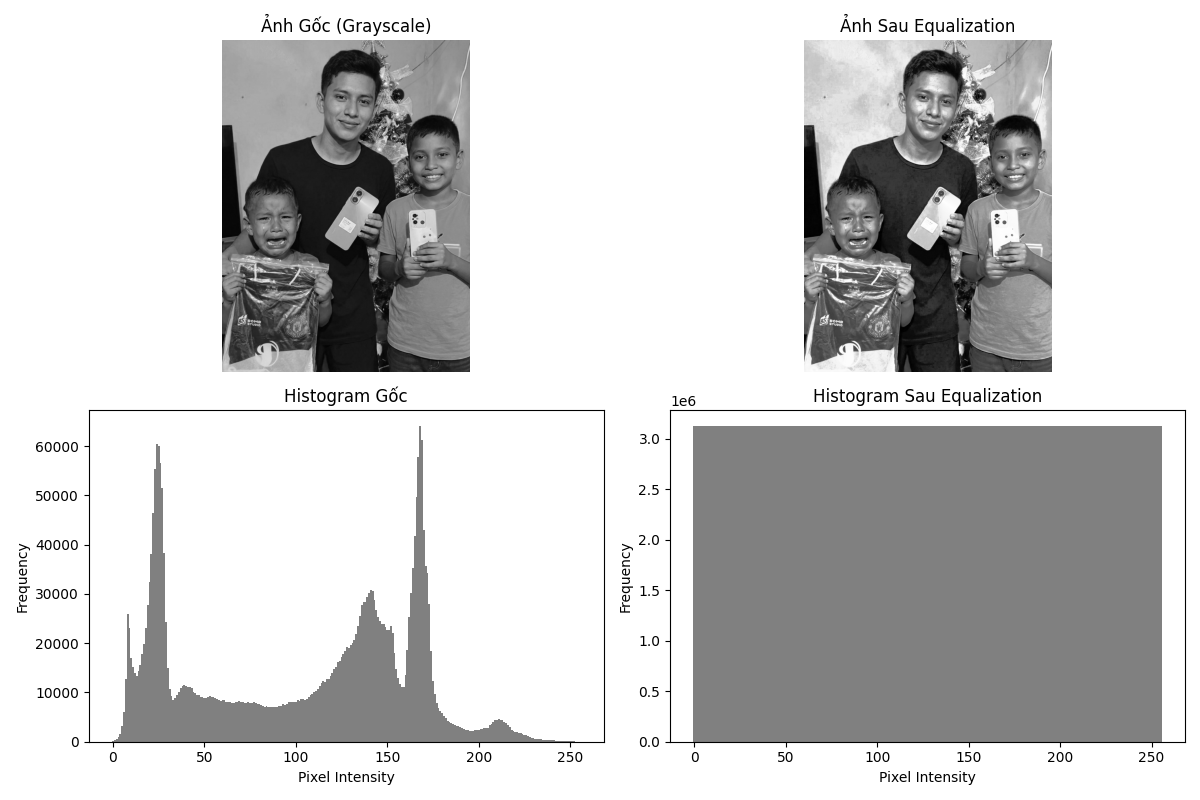
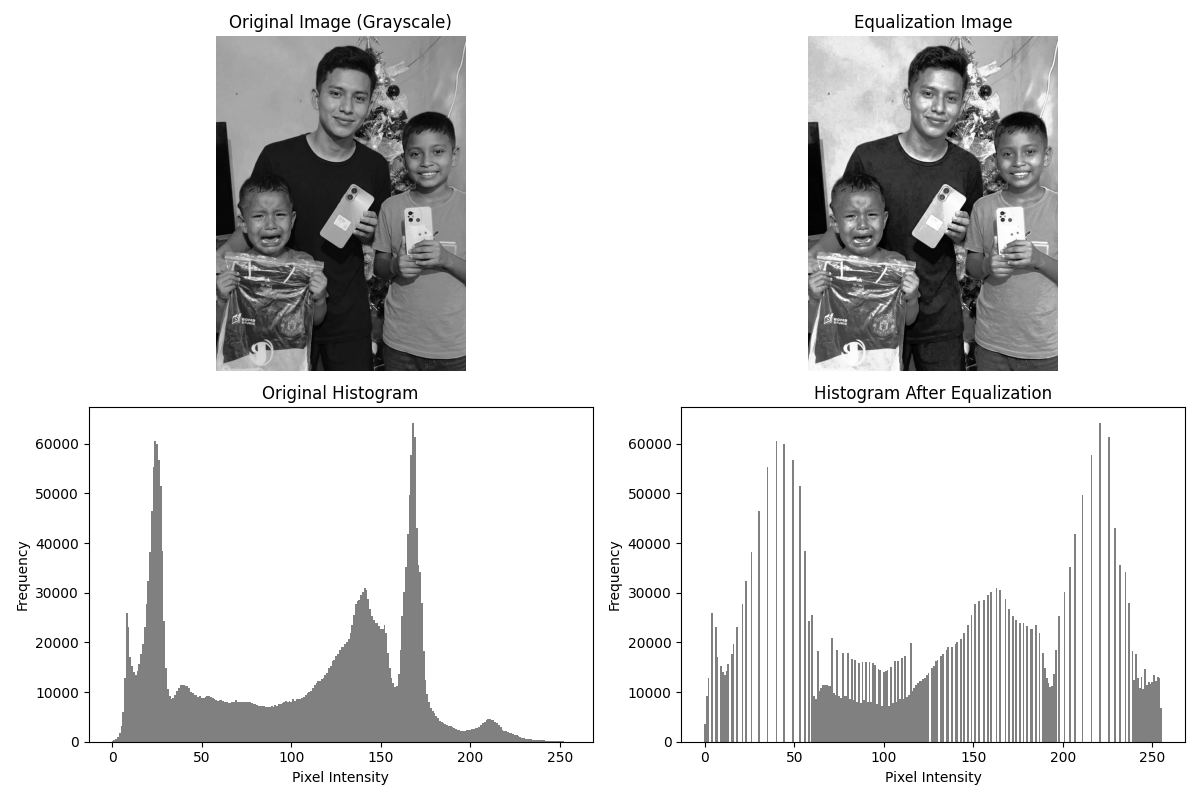
Task 1 New

diff --git a/lab_1/B1/b1_a.py b/lab_1/B1/b1_a.py
@@ -57,8 +57,11 @@ axes[1, 1].set_xlabel("Pixel Intensity")
 axes[1, 1].set_ylabel("Frequency")
 
 plt.tight_layout()
+plt.savefig("equalization_result.png")
 plt.show()
-print("Done! Saved to equalized.jpg and equalization_result.png")
+print("Done! Saved to equalized.jpg và equalization_result.png")
+
+
 
 
 
